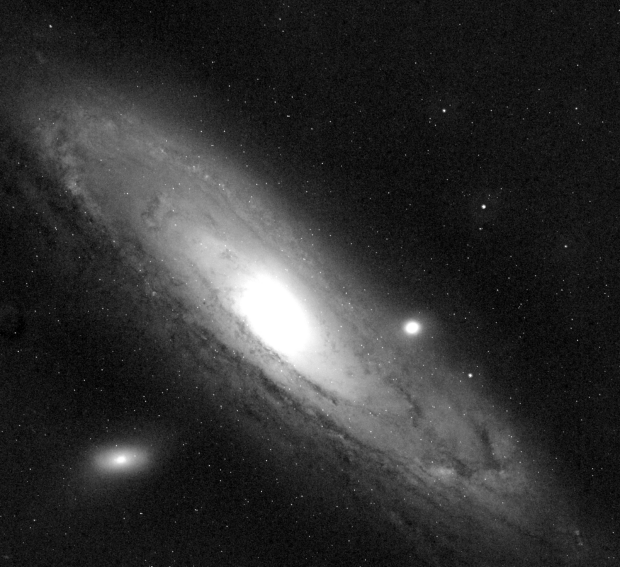
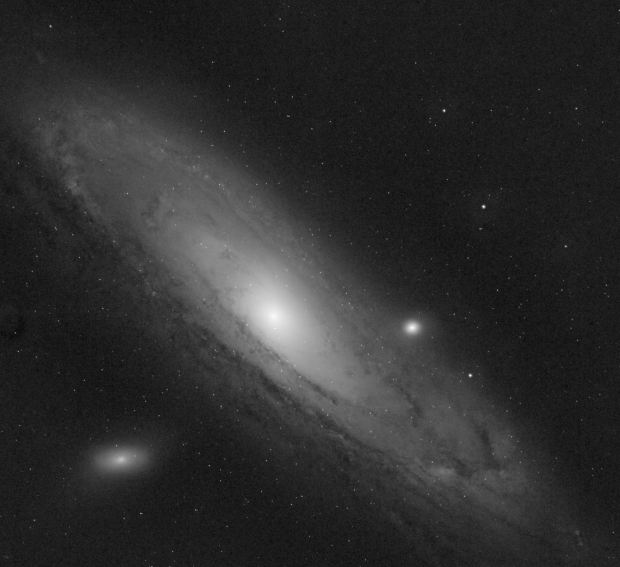
Adding report in folder compte rendu

Changed region(s): [[0.1226, 0.2099, 0.8274, 0.8695], [0.1532, 0.7795, 0.2452, 0.8395], [0.0919, 0.2698, 0.1226, 0.3298]]

diff --git a/main.py b/main.py
@@ -143,37 +143,36 @@ fits.writeto(
 
 
 # ============== Affichage PLT gray image ===================
-plt_result_gray = fits.getdata("./results/fits/gray_float.fits")
+# plt_result_gray = fits.getdata("./results/fits/gray_float.fits")
 
-# stretch simple < 1% et > 99% ignore pour voir quelque chose
-vmin, vmax = np.percentile(plt_result_gray, (1, 99))
+# vmin, vmax = np.percentile(plt_result_gray, (1, 99))
 
-plt.figure(figsize=(8, 8))
-plt.imshow(plt_result_gray, cmap="gray", vmin=vmin, vmax=vmax)
-plt.axis("off")
-plt.savefig("./results/plt_gray_float.png", bbox_inches="tight", pad_inches=0)
+# plt.figure(figsize=(8, 8))
+# plt.imshow(plt_result_gray, cmap="gray", vmin=vmin, vmax=vmax)
+# plt.axis("off")
+# plt.savefig("./results/plt_gray_float.png", bbox_inches="tight", pad_inches=0)
+plt.imsave("./results/plt_result_final.png", Ifinal, cmap="gray")
 # ============== Affichage Resultat Erode ===================
-plt_result_eroded = fits.getdata("./results/fits/Ieroded.fits")
+# plt_result_eroded = fits.getdata("./results/fits/Ieroded.fits")
 
-# stretch simple < 1% et > 99% ignore pour voir quelque chose
-vmin, vmax = np.percentile(plt_result_eroded, (1, 99))
+# vmin, vmax = np.percentile(plt_result_eroded, (1, 99))
 
-plt.figure(figsize=(8, 8))
-plt.imshow(plt_result_eroded, cmap="gray", vmin=vmin, vmax=vmax)
-plt.axis("off")
-plt.savefig("./results/plt_result_eroded.png", bbox_inches="tight", pad_inches=0)
+# plt.figure(figsize=(8, 8))
+# plt.imshow(plt_result_eroded, cmap="gray", vmin=vmin, vmax=vmax)
+# plt.axis("off")
+# plt.savefig("./results/plt_result_eroded.png", bbox_inches="tight", pad_inches=0)
+plt.imsave("./results/plt_result_final.png", Ifinal, cmap="gray")
 
 
 # ============== Affichage résultat final ===================
 plt_result_final = fits.getdata("./results/fits/result_final.fits")
 
-# stretch simple < 1% et > 99% ignore pour voir quelque chose
-vmin, vmax = np.percentile(plt_result_final, (1, 99))
 
 plt.figure(figsize=(8, 8))
-plt.imshow(plt_result_final, cmap="gray", vmin=vmin, vmax=vmax)
+plt.imshow(plt_result_final, cmap="gray")
 plt.axis("off")
 plt.savefig("./results/plt_result_final.png", bbox_inches="tight", pad_inches=0)
+# plt.imsave("./results/plt_result_final.png", Ifinal, cmap="gray")
 
 # ============== Ecriture image en gris ===================
 # Save the eroded image

diff --git a/compte rendu/README.md b/compte rendu/README.md
@@ -1,0 +1,84 @@
+# SAE S3 — Star Reduction — État d’avancement - Problématique / Solutions rencontrées
+
+## Objectif
+
+Réduire les étoiles sur des images **FITS** (astrophoto) sans dégrader les structures scientifiques (nébuleuse/galaxie) et sans artefacts visibles.
+
+## Outils
+
+Python + venv, `astropy`, `photutils` (DAOStarFinder), `opencv-python` (masques/érosion/flou), `matplotlib` (visu PNG).
+
+---
+
+## Jour 1 — Phase 1 terminée + début Phase 2
+
+### Fait
+
+- Prise en main du format **FITS** (données float + header).
+- Lecture FITS et export PNG de visualisation.
+- **Phase 1** : érosion globale OpenCV (kernel, itérations) + observation des résultats.
+- Début **Phase 2** : mise en place de la détection d’étoiles (DAOStarFinder) et du masque binaire avec apprentissage des paramètres.
+
+### Difficultés + solutions
+
+- **Conflits pip / versions (numpy vs opencv)** → ajustement des versions dans `requirements.txt` (versions compatibles numpy <2.3).
+- **Érosion globale = perte de détails :** méthode non sélective, elle dégrade aussi la galaxie/nébuleuse.
+
+---
+
+## Jour 2 — Phase 2 terminée (A + B)
+
+### Étape A : masque d’étoiles
+
+- Détection via `DAOStarFinder` avec :
+  - bruit de fond estimé par `mad_std`
+  - fond de ciel par `median`
+  - paramètres ajustés (`fwhm`, `threshold`)
+- Création d’un masque binaire : fond noir (0), étoiles en blanc (255) via cercles sur les centroids.
+- Vérification via un overlay (étoiles en rouge).
+
+### Étape B : réduction localisée
+
+- Calcul sur **image grise FITS float** (pas en 0..255 pour les traitements car trop de perte de qualité).
+- Création `Ierode` (érosion) sur l’image float.
+- Flou gaussien du masque (bords doux)
+- Mélange progressif : Ifinal = (M × Ierode) + ((1 − M) × Ioriginal)
+- Exports :
+  - PNG de visualisation via `matplotlib` avec imsave et pas en créeant de figure car pour du traitement d'image, il vaut mieux garder le PNG pixel pour pixel.
+
+### Difficultés + solutions
+
+-
+- **Compréhension/tuning `fwhm` et `threshold`** → tests : baisse de `fwhm` + ajustement `threshold` pour mieux détecter les étoiles utiles.
+- **Différence entre uint8 et float en rendu final** : la différence est surtout importante pour préserver la précision scientifique : Travailler au maximum en float32
+
+---
+
+## Execution et interprétation des résultats :
+
+```bash
+python -m venv .venv
+source .venv/bin/activate
+pip install -r requirements.txt
+```
+
+## Examples files
+
+Example files are located in the `examples/` directory. You can run the scripts with these files to see how they work.
+
+- Example 1 : `examples/HorseHead.fits` (Black and whiteFITS image file for testing)
+- Example 2 : `examples/test_M31_linear.fits` (Color FITS image file for testing)
+- Example 3 : `examples/test_M31_raw.fits` (Color FITS image file for testing)
+
+## Preview :
+
+- Dossier results/original
+  - Original (Image original fourni)
+- Dossier results/mask
+  - Masque (Masque binaire sur étoile détectée)
+  - Masque Flou Gaussien (Reprise du masque binaire avec)
+  - Overlay
+- Dossier results/image_final
+  - Ierode
+  - Image grise original
+  - IMage final
